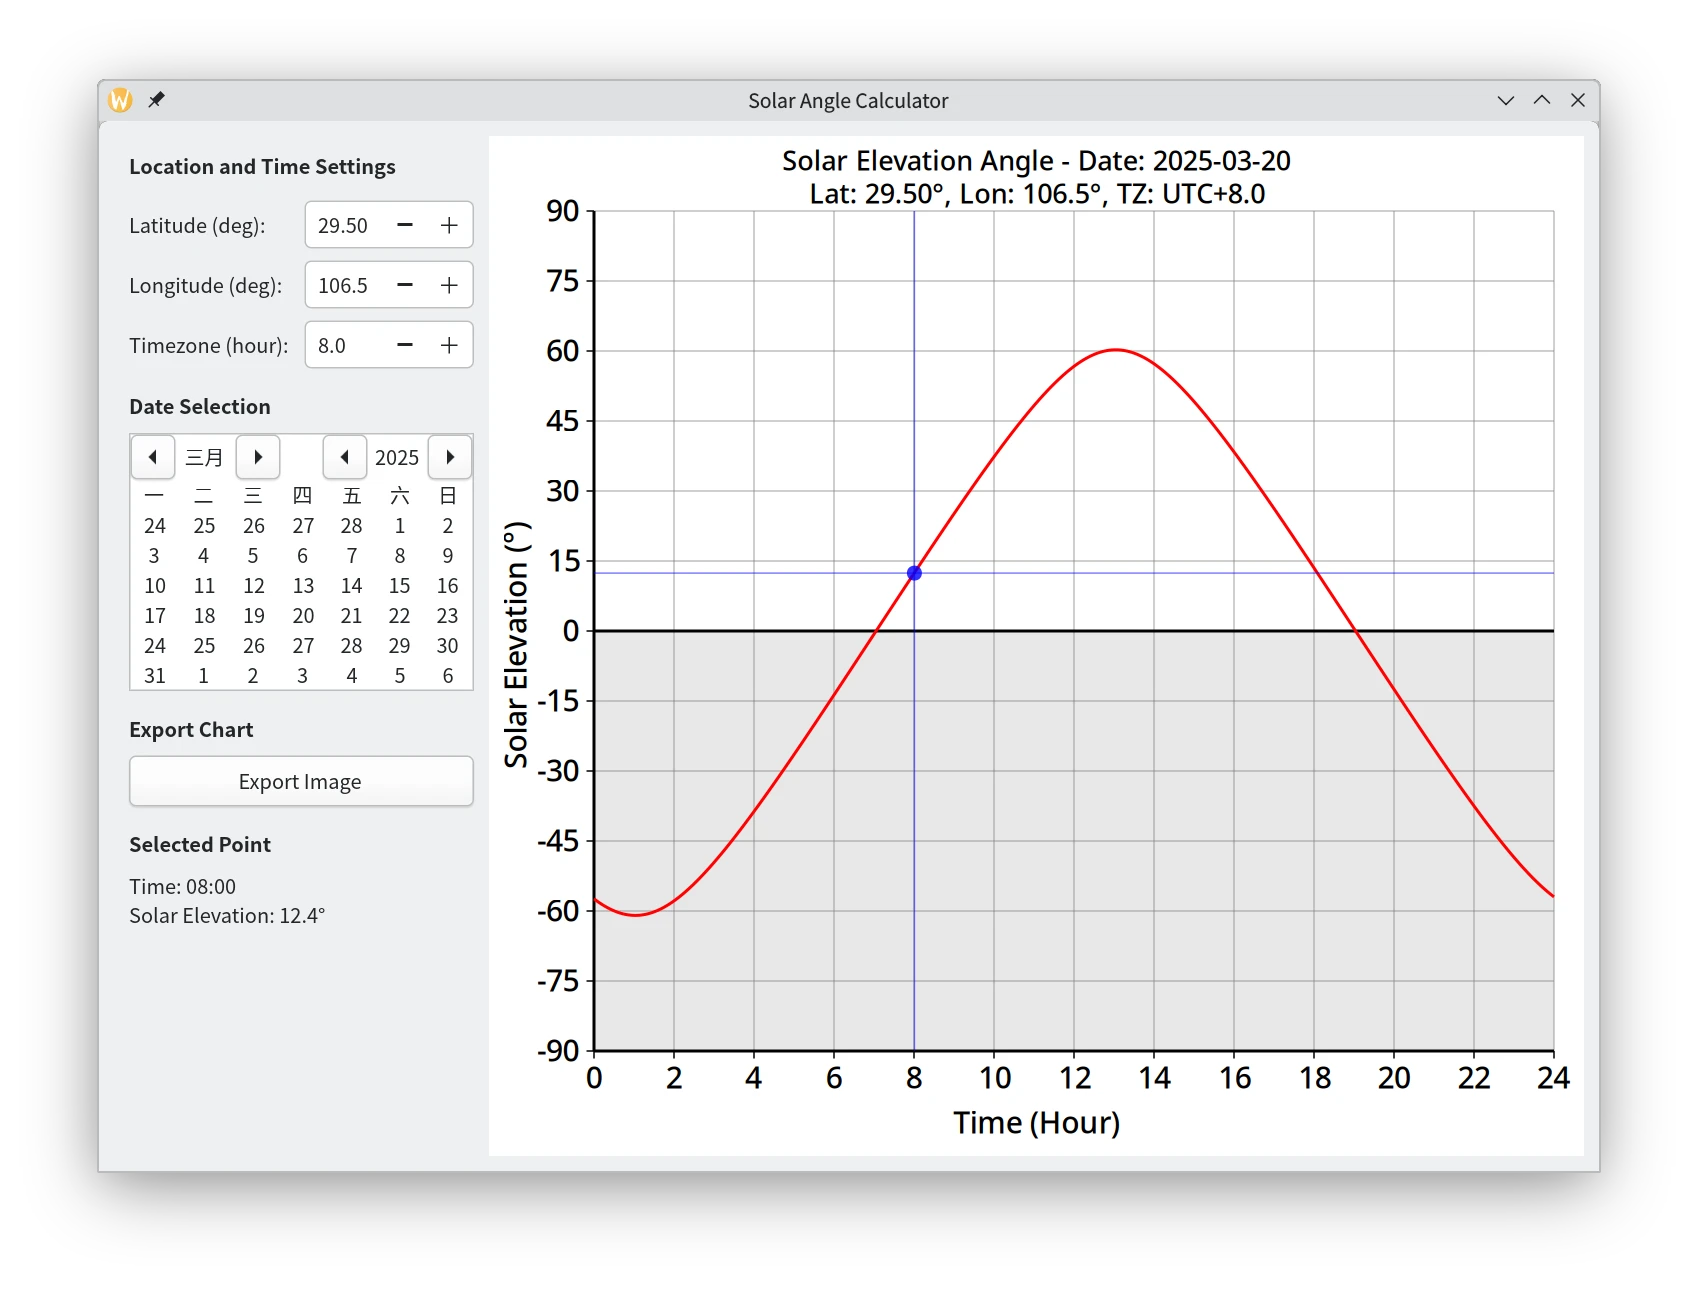
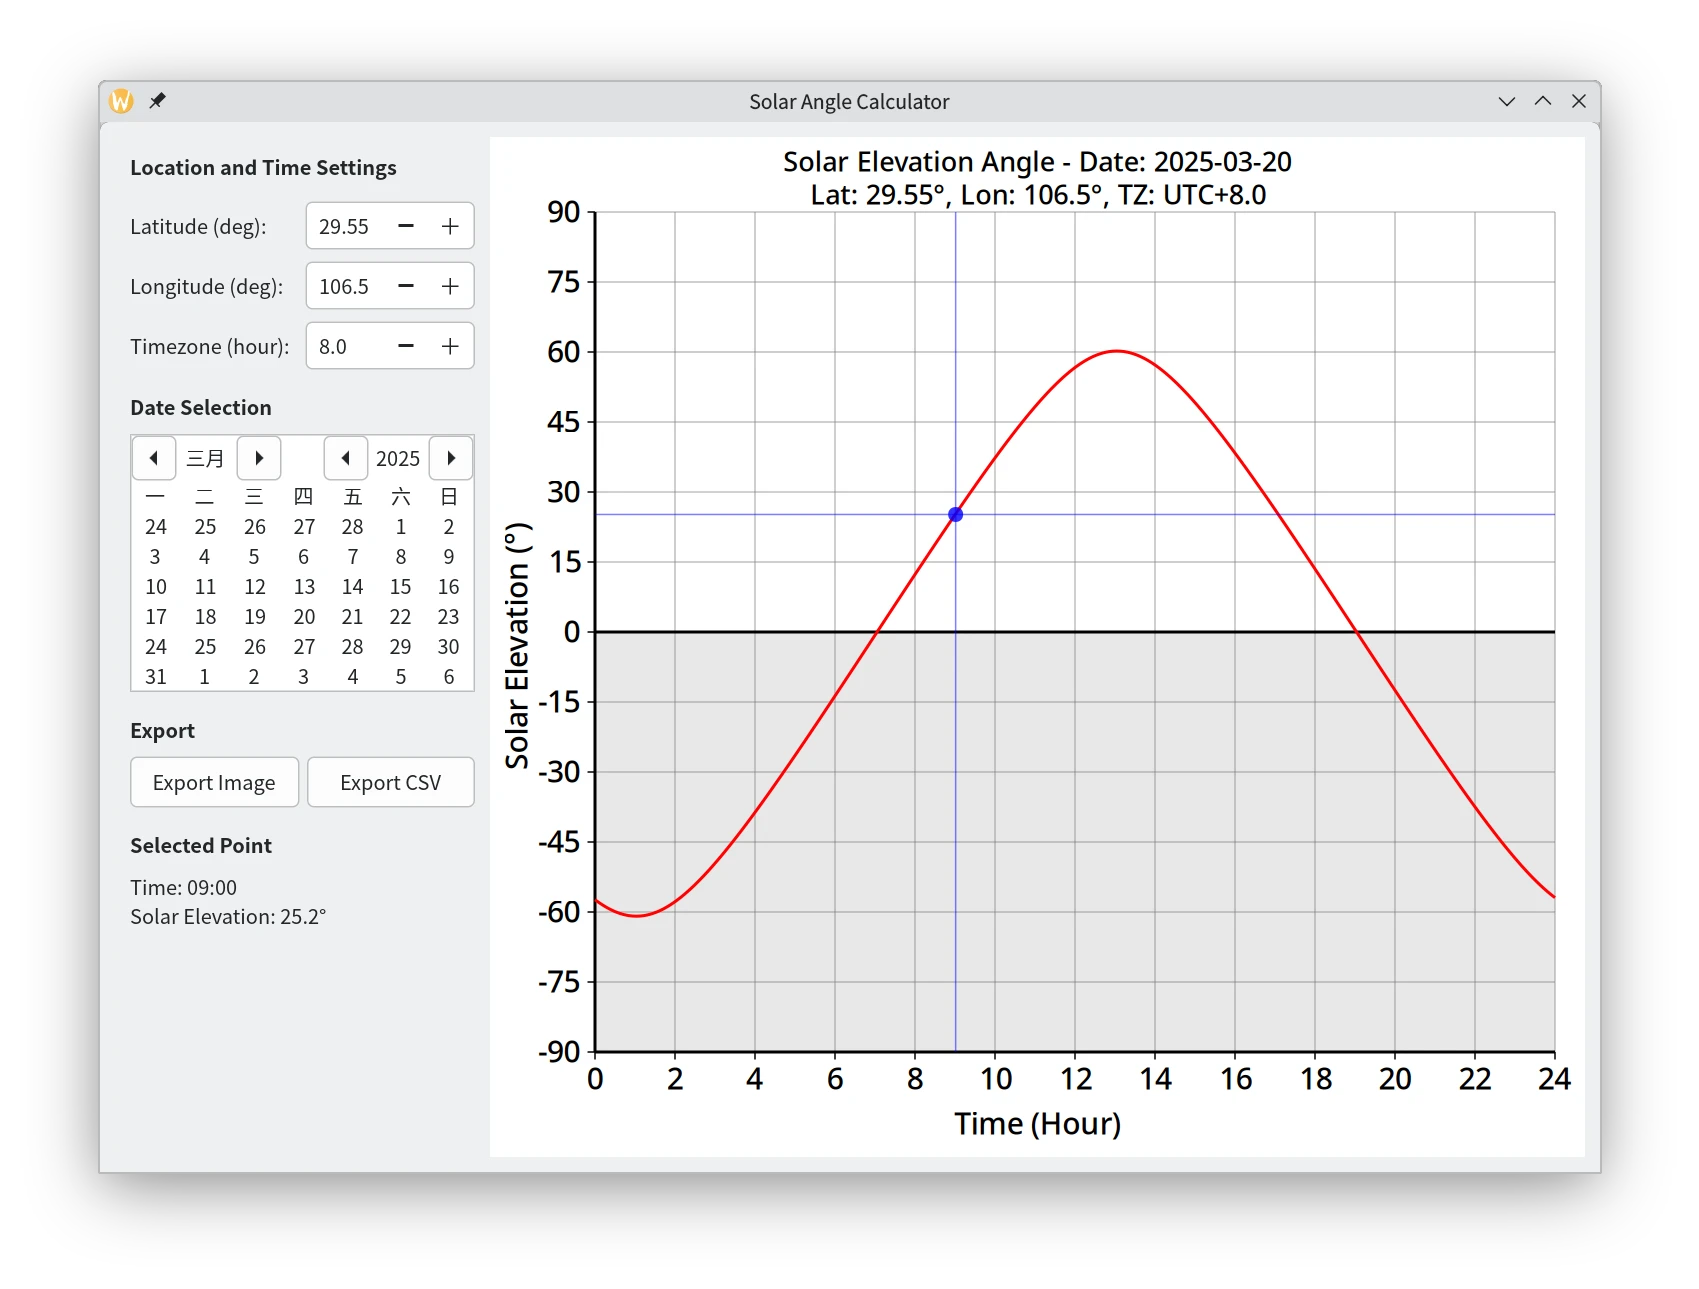
更新文档，添加图表导出功能，支持导出为图像和CSV格式，增强用户交互体验

diff --git a/_posts/2025-02-05-GTK-Vala-Tutorial-2.md b/_posts/2025-02-05-GTK-Vala-Tutorial-2.md
@@ -631,8 +631,9 @@ public static int main (string[] args) {
 - **日期选择**：
     - `Gtk.Calendar` (`calendar`)：允许用户选择日期。
     - `day_selected` 信号连接到回调函数，当日期被选中时，会触发 `update_plot_data ()` 并调用 `drawing_area.queue_draw ()` 重绘图表。
-- **图表导出**：
+- **导出**：
     - “Export Image”按钮 (`export_button`)：点击后打开 `Gtk.FileDialog`，用户选择保存路径和文件格式（PNG, SVG, PDF）后，调用 `export_chart (filepath)` 导出当前绘制的图表。
+    - “”Export CSV”按钮 (`export_csv_button`)：点击后打开 `Gtk.FileDialog`，用户选择保存路径后，调用 `export_csv (filepath)` 导出当前数据为 CSV 表格。
 - **图表交互**：
     - 使用 `Gtk.GestureClick` 控制器附加到 `drawing_area` 上，以捕获鼠标点击事件。
     - `on_chart_clicked (int n_press, double x, double y)` 回调函数：
@@ -651,7 +652,7 @@ public static int main (string[] args) {
 - `draw_sun_angle_chart (Gtk.DrawingArea, Cairo.Context, int width, int height)`：
   * 绘制白色背景。
   * 绘制半透明灰色阴影矩形表示地平线以下区域。
-  * 绘制网格线：水平线每隔 15° 高度角，垂直线每隔 2 小时。
+  * 绘制网格线：水平线间隔 15° 高度角，垂直线间隔 2 小时。
   * 绘制坐标轴、刻度标记和数字标签。
   * 使用红色曲线绘制计算得到的太阳高度角随时间变化。
   * **如果 `has_click_point` 为 `true`**：
@@ -687,12 +688,13 @@ public class SolarAngleApp : Gtk.Application {
     private Gtk.SpinButton timezone_spin;
     private Gtk.Calendar calendar;
     private Gtk.Button export_button;
+    private Gtk.Button export_csv_button;
     private Gtk.Label click_info_label;
     private DateTime selected_date;
+    private double sun_angles[RESOLUTION_PER_MIN];
     private double latitude = 0.0;
     private double longitude = 0.0;
     private double timezone_offset_hours = 0.0;
-    private double sun_angles[RESOLUTION_PER_MIN];
     private double clicked_x = 0.0;
     private double corresponding_y = 0.0;
     private bool has_click_point = false;
@@ -715,10 +717,11 @@ public class SolarAngleApp : Gtk.Application {
      * and initializes the plot data with current settings.
      */
     protected override void activate () {
-        window = new Gtk.ApplicationWindow (this);
-        window.title = "Solar Angle Calculator";
-        window.default_width = 1000;
-        window.default_height = 700;
+        window = new Gtk.ApplicationWindow (this) {
+            title = "Solar Angle Calculator",
+            default_width = 1000,
+            default_height = 700,
+        };
 
         var main_box = new Gtk.Box (Gtk.Orientation.HORIZONTAL, 0) {
             margin_start = 10,
@@ -812,16 +815,27 @@ public class SolarAngleApp : Gtk.Application {
         date_group.append (calendar);
 
         var export_group = new Gtk.Box (Gtk.Orientation.VERTICAL, 8);
-        var export_label = new Gtk.Label ("<b>Export Chart</b>") {
+        var export_label = new Gtk.Label ("<b>Export</b>") {
             use_markup = true,
             halign = Gtk.Align.START,
+        };
+
+        // Create horizontal box for buttons
+        var export_buttons_box = new Gtk.Box (Gtk.Orientation.HORIZONTAL, 5) {
+            homogeneous = true,
         };
 
         export_button = new Gtk.Button.with_label ("Export Image");
         export_button.clicked.connect (on_export_clicked);
 
+        export_csv_button = new Gtk.Button.with_label ("Export CSV");
+        export_csv_button.clicked.connect (on_export_csv_clicked);
+
+        export_buttons_box.append (export_button);
+        export_buttons_box.append (export_csv_button);
+
         export_group.append (export_label);
-        export_group.append (export_button);
+        export_group.append (export_buttons_box);
 
         // Add click info display group
         var click_info_group = new Gtk.Box (Gtk.Orientation.VERTICAL, 8);
@@ -829,10 +843,9 @@ public class SolarAngleApp : Gtk.Application {
             use_markup = true,
             halign = Gtk.Align.START,
         };
-        click_info_label = new Gtk.Label ("Click on chart to view data") {
+        // Initial click info label (Use an extra newline for better spacing)
+        click_info_label = new Gtk.Label ("Click on chart to view data\n") {
             halign = Gtk.Align.START,
-            wrap = true,
-            wrap_mode = Pango.WrapMode.WORD,
         };
         click_info_group.append (click_info_title);
         click_info_group.append (click_info_label);
@@ -933,7 +946,7 @@ public class SolarAngleApp : Gtk.Application {
         
         // Clear click point when data updates
         has_click_point = false;
-        click_info_label.label = "Click on chart to view data";
+        click_info_label.label = "Click on chart to view data\n";
     }
 
     /**
@@ -978,7 +991,7 @@ public class SolarAngleApp : Gtk.Application {
         } else {
             // Double click or outside plot area - clear point
             has_click_point = false;
-            click_info_label.label = "Click on chart to view data";
+            click_info_label.label = "Click on chart to view data\n";
             drawing_area.queue_draw ();
         }
     }
@@ -1162,11 +1175,10 @@ public class SolarAngleApp : Gtk.Application {
             try {
                 var file = file_dialog.save.end (res);
                 if (file != null) {
-                    string filepath = file.get_path ();
-                    export_chart (filepath);
+                    export_chart (file);
                 }
             } catch (Error e) {
-                message ("File has not been saved: %s", e.message);
+                message ("Image file has not been saved: %s", e.message);
             }
         });
     }
@@ -1177,9 +1189,9 @@ public class SolarAngleApp : Gtk.Application {
      * Supports PNG, SVG, and PDF formats based on file extension.
      * Defaults to PNG if extension is not recognized.
      *
-     * @param filepath The file path where the chart should be saved.
+     * @param file The file to export the chart to.
      */
-    private void export_chart (string filepath) {
+    private void export_chart (File file) {
         int width = drawing_area.get_width ();
         int height = drawing_area.get_height ();
 
@@ -1188,6 +1200,7 @@ public class SolarAngleApp : Gtk.Application {
             height = 600;
         }
 
+        string filepath = file.get_path ();
         string? extension = null;
         var last_dot = filepath.last_index_of_char ('.');
         if (last_dot != -1) {
@@ -1207,6 +1220,72 @@ public class SolarAngleApp : Gtk.Application {
             Cairo.Context cr = new Cairo.Context (surface);
             draw_sun_angle_chart (drawing_area, cr, width, height);
             surface.write_to_png (filepath);
+        }
+    }
+
+    /**
+     * Handles CSV export button click event.
+     *
+     * Shows a file save dialog for CSV format.
+     */
+    private void on_export_csv_clicked () {
+        var csv_filter = new Gtk.FileFilter ();
+        csv_filter.name = "CSV Files";
+        csv_filter.add_mime_type ("text/csv");
+
+        var filter_list = new ListStore (typeof (Gtk.FileFilter));
+        filter_list.append (csv_filter);
+
+        var file_dialog = new Gtk.FileDialog () {
+            modal = true,
+            initial_name = "solar_elevation_data.csv",
+            filters = filter_list
+        };
+
+        file_dialog.save.begin (window, null, (obj, res) => {
+            try {
+                var file = file_dialog.save.end (res);
+                if (file != null) {
+                    export_csv_data (file);
+                }
+            } catch (Error e) {
+                message ("CSV file has not been saved: %s", e.message);
+            }
+        });
+    }
+
+    /**
+     * Exports the solar elevation data to a CSV file.
+     *
+     * @param file The file to export the data to.
+     */
+    private void export_csv_data (File file) {
+        try {
+            var stream = file.replace (null, false, FileCreateFlags.REPLACE_DESTINATION);
+            var data_stream = new DataOutputStream (stream);
+
+            // Write CSV metadata as comments
+            data_stream.put_string ("# Solar Elevation Data\n");
+            data_stream.put_string ("# Date: %s\n".printf(selected_date.format("%Y-%m-%d")));
+            data_stream.put_string ("# Latitude: %.2f degrees\n".printf(latitude));
+            data_stream.put_string ("# Longitude: %.2f degrees\n".printf(longitude));
+            data_stream.put_string ("# Timezone: UTC%+.2f\n".printf(timezone_offset_hours));
+            data_stream.put_string ("#\n");
+
+            // Write CSV header
+            data_stream.put_string ("Time,Solar Elevation (degrees)\n");
+
+            // Write data points
+            for (int i = 0; i < RESOLUTION_PER_MIN; i += 1) {
+                int hours = i / 60;
+                int minutes = i % 60;
+                string time_str = "%02d:%02d".printf(hours, minutes);
+                data_stream.put_string ("%s,%.3f\n".printf(time_str, sun_angles[i]));
+            }
+
+            data_stream.close ();
+        } catch (Error e) {
+            message ("Error saving CSV file: %s", e.message);
         }
     }
 
